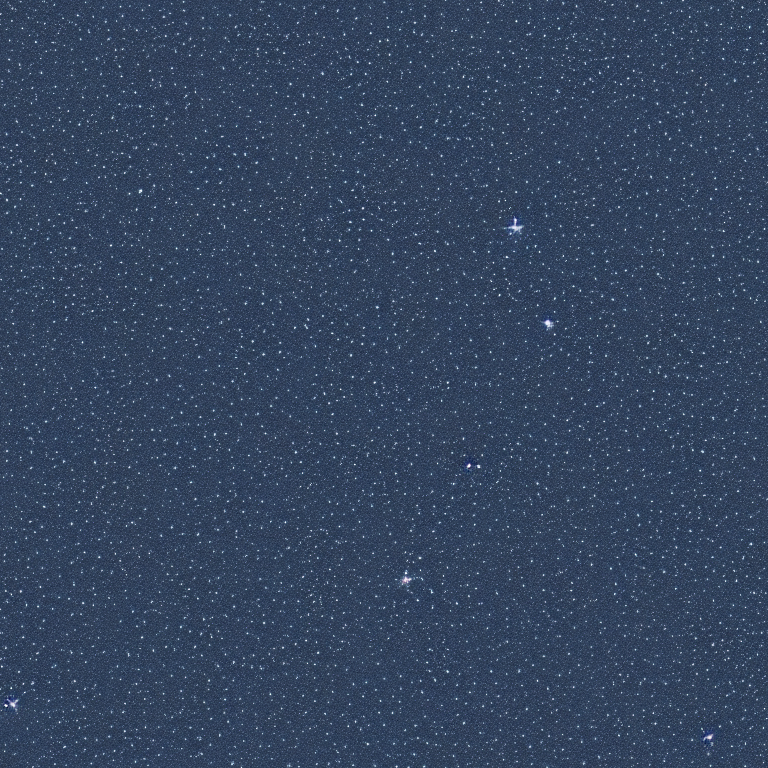
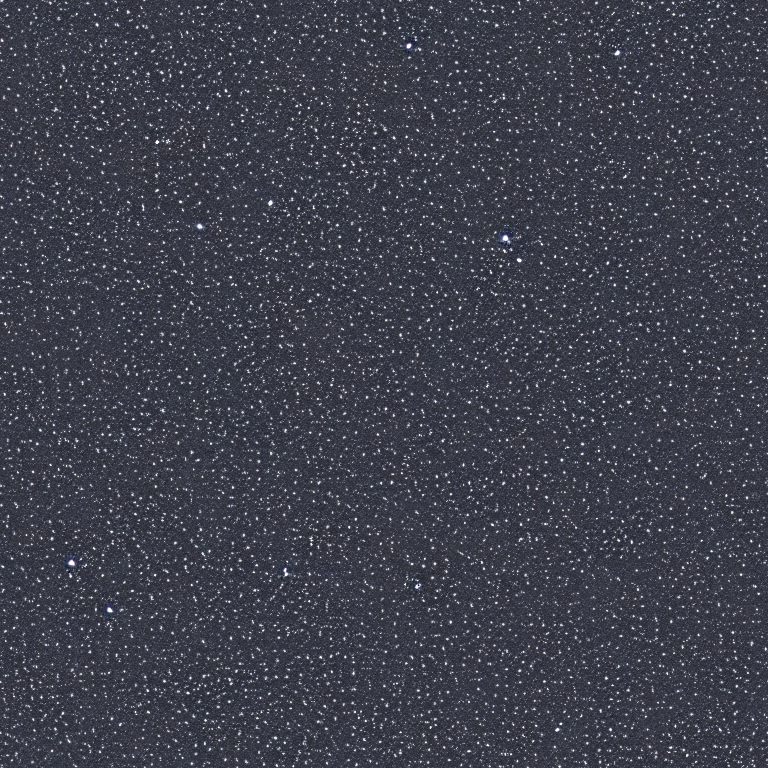
fixed welcome message

diff --git a/index.html b/index.html
@@ -14,13 +14,14 @@
 
 <body onload="displayWelcome()" oncontextmenu="return false">
 
-        <div class="desktop">
+        <div id="desktop">
 
                 <ul class="context-menu" id="desktop-menu">
                         <li><div>set background</div>
                                 <ul>
-                                        <li onclick="setBackgroundBlack()"><div>black (default)</div></li>
+                                        <li><div onclick="setBackgroundBlack()">black (default)</div></li>
                                         <li><div onclick="setBackgroundBlue()">blue</div></li>
+                                        <li><div onclick="setBackgroundOrange()">orange</div></li>
                                 </ul>
                         </li>
                         <li><div><a href="https://github.com/frxedlxver/ePortfolio">view source</a></div></li>
@@ -51,7 +52,7 @@
                 <!-- WINDOWS ---------------------------------------------------------->
 
                 <!-- WELCOME MESSAGE -->
-                <div id="win-welcome" class="window-container">
+                <div id="win-welcome" class="window-container draggable-item">
 
                         <div class="window-header">
                                 <h4>W E L C O M E</h4>
@@ -59,8 +60,8 @@
                         </div>
 
                         <div class="window-body">
-                                <p> Hey there, I'm Riley Hendrickson Pike, a second-year programming student in Halifax, NS. Thanks for dropping by!
-                                <br>This place is still a work-in-progress, but you can a look around using the desktop icons. </p>
+                                <p> Hey there. I'm Riley Hendrickson Pike, a second-year programming student in Halifax, NS. Thanks for dropping by.
+                                <br> Use the desktop icons to take a look around! </p>
                                 <button class="btn-dialog btn-win-close"> OK! </button>
                         </div>
 

diff --git a/css/desktop.css b/css/desktop.css
@@ -6,31 +6,18 @@ html, body {
     overflow: hidden;
 }
 
-.desktop {
+#desktop {
+    margin: 0;
+    padding: 0;
     height: 100%;
     width: 100%;
-    background-image: url("../img/index1.png");
+    background-image: url("../img/index0.png");
     background-repeat: both;
     background-size: 30%;
     justify-content: left;
     align-items: left;
 }
 
-.bg0 {
-    background-image: url("../img/index1.png");
-    background-repeat: both;
-    background-size: 30%;
-    justify-content: left;
-    align-items: left;
-}
-
-.bg1 {
-    background-image: url("../img/index2.png");
-    background-repeat: both;
-    background-size: 30%;
-    justify-content: left;
-    align-items: left;
-}
 
 nav {
     display: flex;
@@ -51,7 +38,8 @@ hr {
 
 .icon {
     margin: 20px;
-    height: 10%;
+    height: 108px;
+    width: 108px;
     flex: 0 0;
     display: flex;
     flex-direction: column;

diff --git a/js/menu.js b/js/menu.js
@@ -9,7 +9,7 @@ $(document).on('click',function(){
 });
 
 // disable right click and show custom context menu
-$(".desktop").on('contextmenu', function (e) {
+$("#desktop").on('contextmenu', function (e) {
 
         var id = this.id;
         $("#txt_id").val(id);
@@ -43,11 +43,13 @@ $('.context-menu li').on('click', function(){
 });
 
 function setBackgroundBlack() {
-    $(".desktop").removeClass("bg1")
-    $(".desktop").addClass("bg0")
+    document.getElementById('desktop').style.backgroundImage="url('./img/index0.png')";
 }
 
 function setBackgroundBlue() {
-    $(".desktop").removeClass("bg0")
-    $(".desktop").addClass("bg1")
+    document.getElementById('desktop').style.backgroundImage="url('./img/index1.png')";
+}
+
+function setBackgroundOrange() {
+    document.getElementById('desktop').style.backgroundImage="url('./img/index2.png')";
 }

diff --git a/css/windows.css b/css/windows.css
@@ -49,6 +49,8 @@ html * {
   cursor:pointer;
 }
 
+
+
 .window-container button {
   background-color: #FFCF97;
   border-radius: 5px;
@@ -81,9 +83,6 @@ html * {
   border-right-color: #FF7868;
 }
 
-
-
-
 .window-container {
   display:flex;
   flex-direction: column;
@@ -107,6 +106,7 @@ html * {
   justify-content: left;
   position:relative;
 }
+
 
 
 .window-body *, .window-header * {

diff --git a/js/windows.js b/js/windows.js
@@ -4,10 +4,10 @@ function resetWindows() {
 }
 
 $(".window-container").draggable({
-    handle: ".window-header"
+    handle: ".window-header",
+    containment: "#desktop",
+    scroll: false
 });
-
-$(".window-header").mousedown()
 
 
 $("#btn-contact").click(function() {
